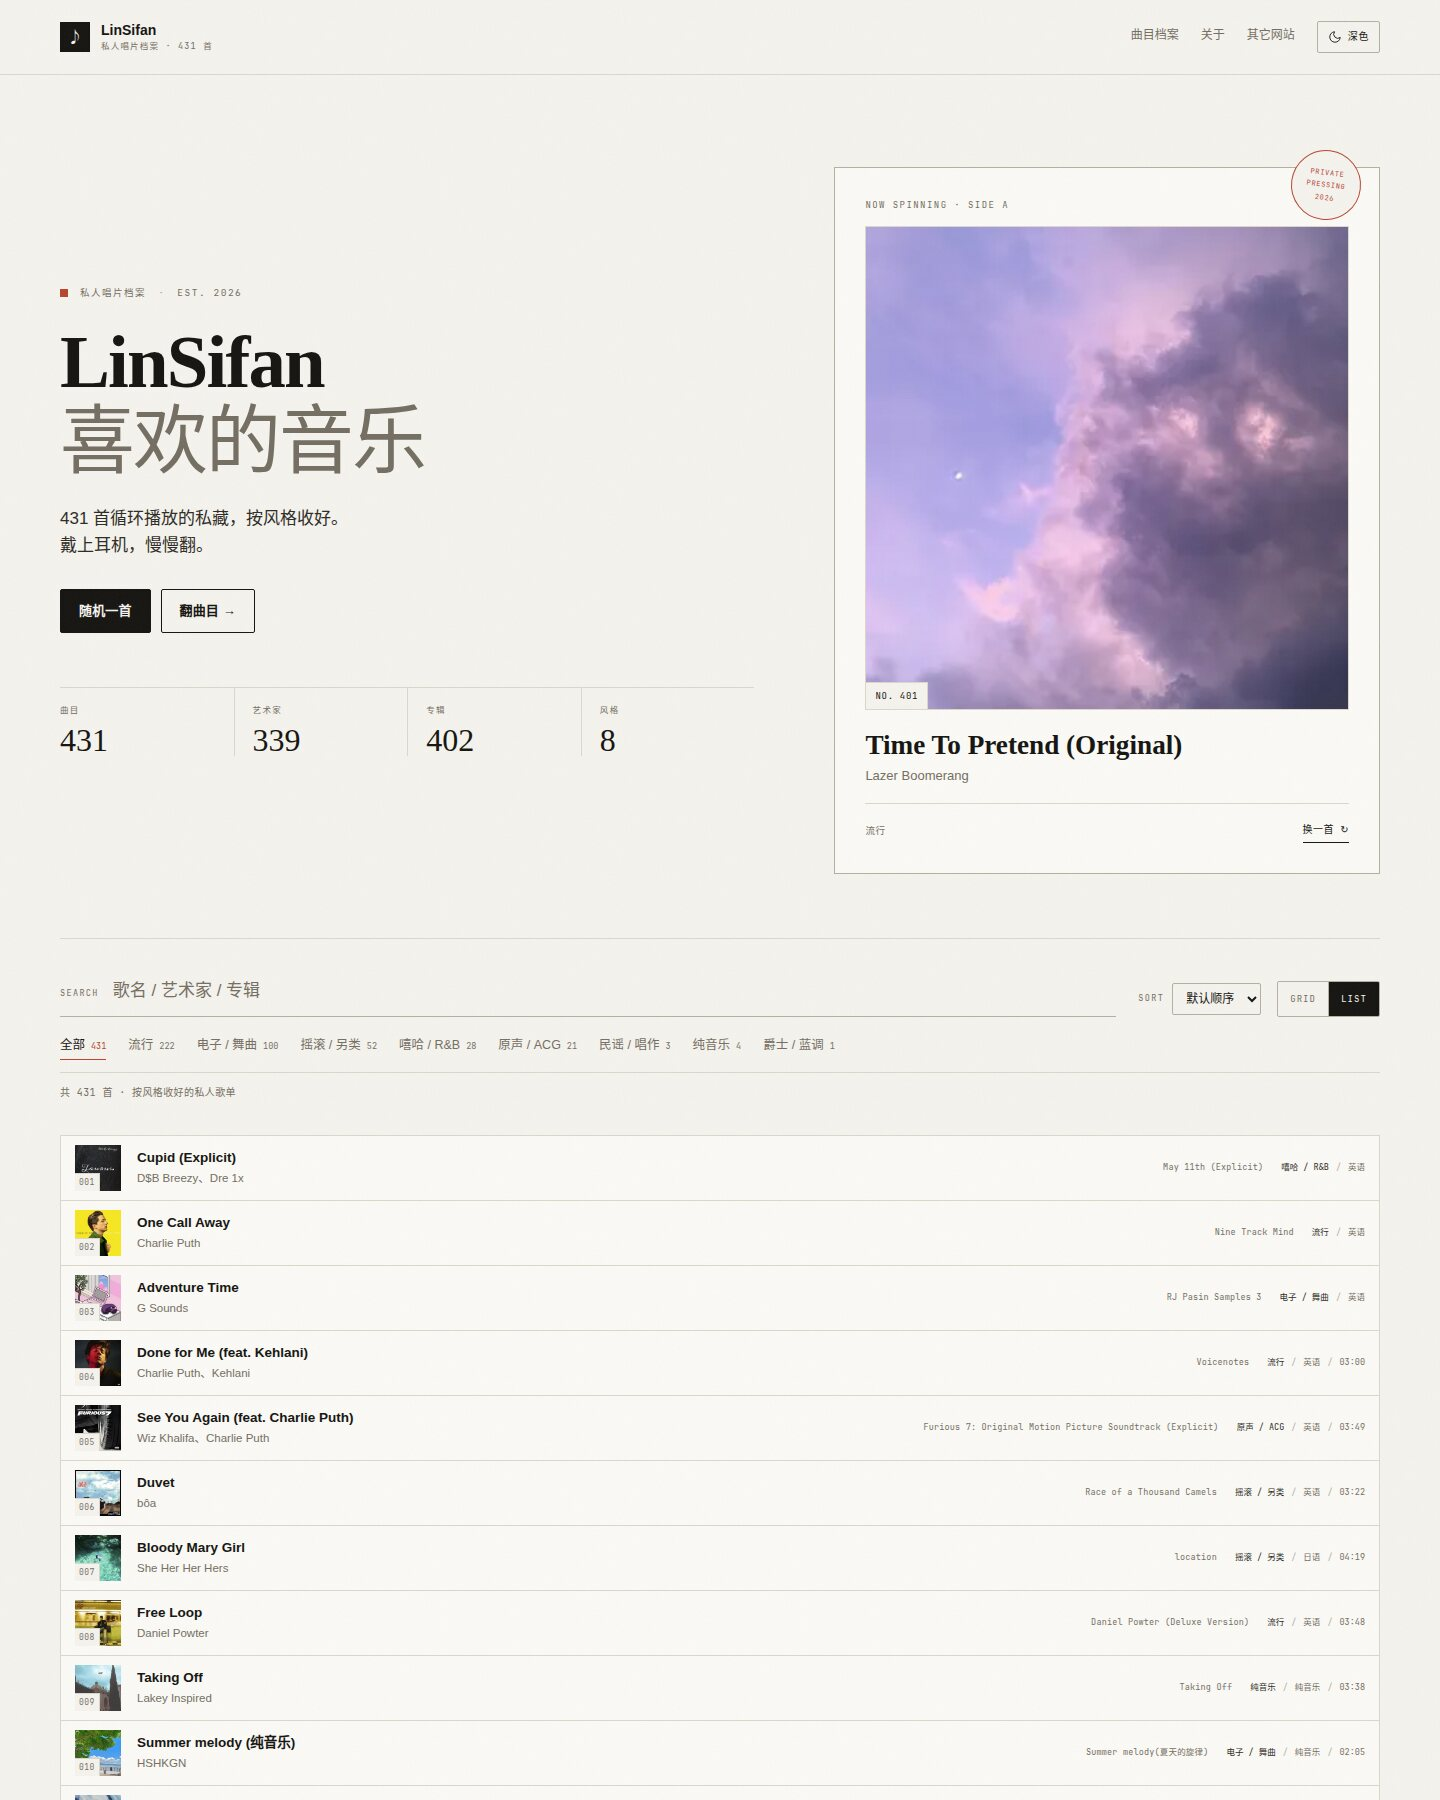
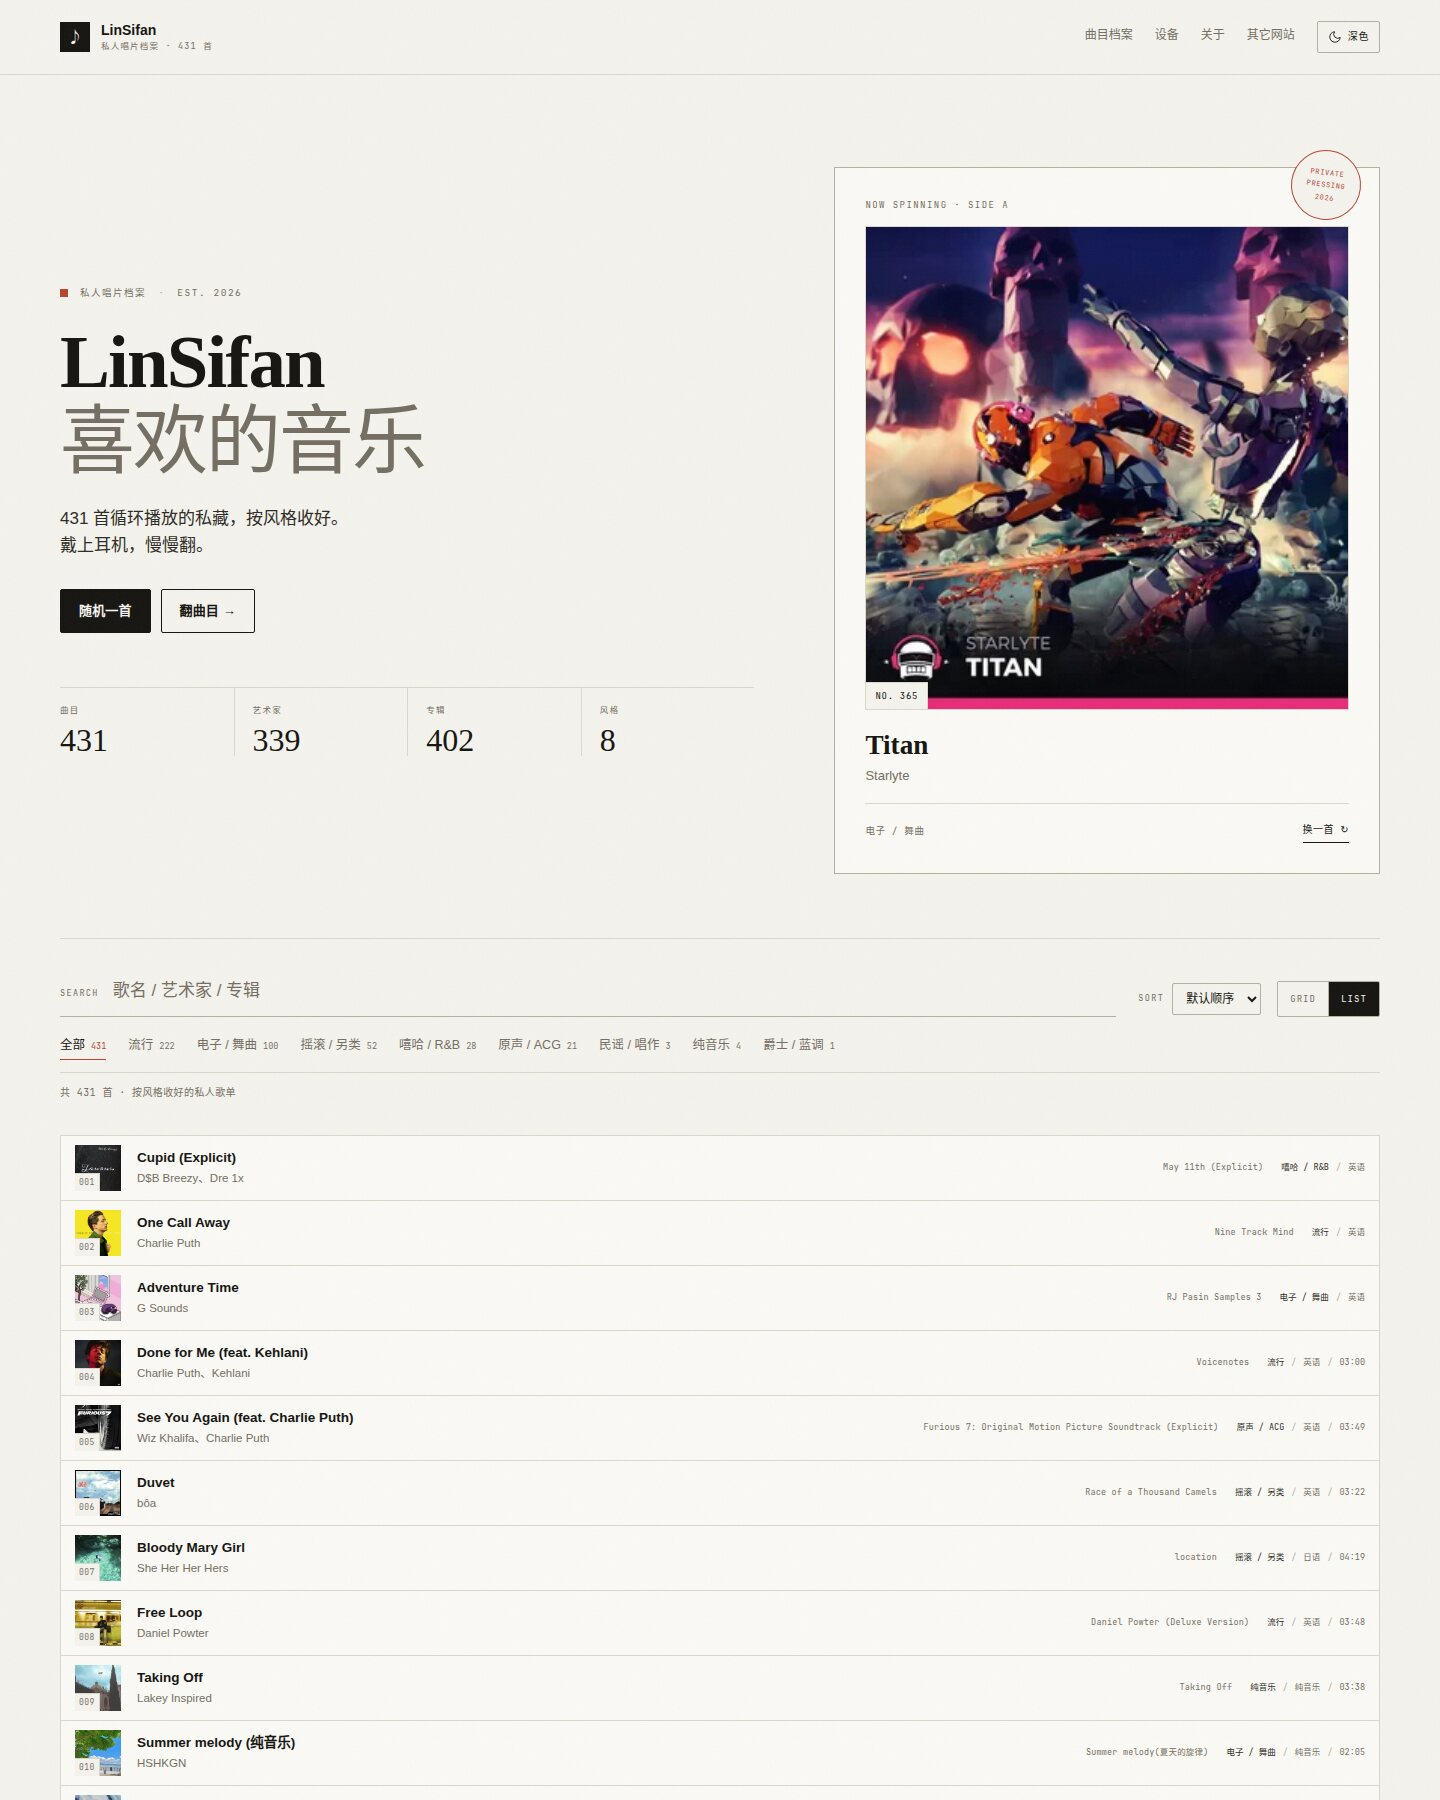
设备展示改为两张克制卡片，并更新发布预览
- 删除产品参数表、线稿、产品页链接等广告感元素
- 改为「LISTENING / 听音」下两张简单卡片：编号、名称、类型、日常用途
- 移除 Hero 设备推广链接和 gear 预览图
- 重新生成 dark / light-list / mobile / dialog 四张预览图
- CSS 版本号更新到 20261122-3

Changed region(s): [[0.5938, 0.1244, 0.9375, 0.4356], [0.75, 0.0, 0.8125, 0.0311]]

diff --git a/index.html b/index.html
@@ -11,7 +11,7 @@
   <meta property="og:type" content="website">
   <title>LinSifan 喜欢的音乐 · 私人唱片档案</title>
   <link rel="icon" href="favicon.svg" type="image/svg+xml">
-  <link rel="stylesheet" href="css/style.css?v=20261122-2">
+  <link rel="stylesheet" href="css/style.css?v=20261122-3">
 </head>
 <body>
   <header class="site-head">
@@ -56,7 +56,6 @@
           <div class="stat"><dt>专辑</dt><dd data-count="402" data-stat="albums">0</dd></div>
           <div class="stat"><dt>风格</dt><dd data-count="8" data-stat="genres">0</dd></div>
         </dl>
-        <a class="hero__gear" href="#gear">听音设备 · EDIFIER AtomBuds Plus / W820NB 三金标版 →</a>
       </div>
 
       <aside class="now" aria-label="现在播放">
@@ -115,63 +114,21 @@
       </div>
     </section>
 
-    <section class="gear shell" id="gear" aria-labelledby="gear-title">
-      <div class="gear__head">
-        <p class="kicker"><span>GEAR</span><span>02 DEVICES</span></p>
-        <h2 id="gear-title">我的音乐设备</h2>
-        <p class="gear__lede">两副耳机，一半在通勤路上，一半留给深夜。</p>
+    <section class="listening shell" id="gear" aria-labelledby="listening-title">
+      <div class="listening__head">
+        <p class="kicker"><span>LISTENING</span><span>听音</span></p>
+        <h2 id="listening-title">每天在用的两副耳机</h2>
       </div>
-
-      <div class="gear__grid">
-        <article class="gear-card">
-          <div class="gear-card__top"><span>01</span><span>TWS / 半入耳</span></div>
-          <div class="gear-card__art" aria-hidden="true">
-            <svg viewBox="0 0 160 120" width="190" height="142.5" role="img">
-              <g fill="none" stroke="currentColor" stroke-width="1.4" stroke-linecap="round">
-                <path d="M48 36c0-10 8-18 18-18s17 7 17 17c0 7-4 12-10 15l-4 30c-1 7-6 11-12 11-7 0-12-5-12-12 0-5 2-8 6-11l4-3c2-2 3-4 3-7V36Z"/>
-                <path d="M104 40c0-8 6-15 14-15s14 6 14 15c0 6-3 10-8 13l-3 24c-1 6-5 10-10 10-6 0-10-4-10-10 0-4 2-7 5-9l3-3c2-2 3-4 3-6V40Z"/>
-                <circle cx="66" cy="34" r="2.6"/>
-                <circle cx="118" cy="35" r="2.4"/>
-              </g>
-            </svg>
-            <span class="gear-card__art-note">ATOMBUDS PLUS</span>
-          </div>
+      <div class="listening__cards">
+        <article class="listen-card">
+          <div class="listen-card__top"><span>01</span><span>真无线 · 半入耳</span></div>
           <h3>EDIFIER AtomBuds Plus</h3>
-          <p class="gear-card__type">真无线 · 半入耳式</p>
-          <dl class="gear-specs">
-            <div><dt>连接</dt><dd>蓝牙真无线</dd></div>
-            <div><dt>特点</dt><dd>通话降噪 · 轻量佩戴</dd></div>
-            <div><dt>常听</dt><dd>通勤 / 播客 / 视频会议</dd></div>
-          </dl>
-          <p class="gear-note">上班路上和开会时用它，轻、不压耳，戴一整天也没什么负担。</p>
-          <a class="gear-link" href="https://edifier.cn/product/product-specs-767.html" target="_blank" rel="noopener">产品页 ↗</a>
+          <p>通勤 / 播客 / 视频会议</p>
         </article>
-
-        <article class="gear-card">
-          <div class="gear-card__top"><span>02</span><span>Headphone / 头戴</span></div>
-          <div class="gear-card__art" aria-hidden="true">
-            <svg viewBox="0 0 160 120" width="190" height="142.5" role="img">
-              <g fill="none" stroke="currentColor" stroke-width="1.4" stroke-linecap="round" stroke-linejoin="round">
-                <path d="M40 78V58c0-23 18-40 40-40s40 17 40 40v20"/>
-                <rect x="34" y="70" width="22" height="30" rx="8"/>
-                <rect x="104" y="70" width="22" height="30" rx="8"/>
-                <path d="M40 63c5-4 10-6 16-6M120 63c-5-4-10-6-16-6"/>
-                <path d="M62 17c8-4 18-6 26-6" opacity=".45"/>
-              </g>
-            </svg>
-            <span class="gear-card__art-note">W820NB 三金标版</span>
-          </div>
+        <article class="listen-card">
+          <div class="listen-card__top"><span>02</span><span>头戴式 · 主动降噪</span></div>
           <h3>EDIFIER W820NB 三金标版</h3>
-          <p class="gear-card__type">头戴式 · 主动降噪</p>
-          <dl class="gear-specs">
-            <div><dt>认证</dt><dd>双 Hi-Res 金标</dd></div>
-            <div><dt>编解码</dt><dd>LDAC</dd></div>
-            <div><dt>降噪</dt><dd>-43dB 深度降噪</dd></div>
-            <div><dt>续航</dt><dd>约 50 小时</dd></div>
-            <div><dt>常听</dt><dd>深夜 / 大编制 / 长时间专注</dd></div>
-          </dl>
-          <p class="gear-note">夜里把整张专辑从头听到尾时用它；安静、耐听，像把房间的门关上。</p>
-          <a class="gear-link" href="https://www.edifier.com.cn/product/product-specs-832.html" target="_blank" rel="noopener">产品页 ↗</a>
+          <p>深夜 / 大编制 / 长时间专注</p>
         </article>
       </div>
     </section>
@@ -286,7 +243,7 @@
 
   <div class="toast" id="toast" role="status" aria-live="polite"></div>
 
-  <script src="js/data.js?v=20261122-2"></script>
-  <script src="js/app.js?v=20261122-2"></script>
+  <script src="js/data.js?v=20261122-3"></script>
+  <script src="js/app.js?v=20261122-3"></script>
 </body>
 </html>

diff --git a/css/style.css b/css/style.css
@@ -409,82 +409,41 @@ html[data-theme="dark"] .theme-btn .icon-sun { display: block; }
 .empty p { margin: 0 0 22px; color: var(--muted); font-size: 13px; }
 .empty .btn { min-height: 40px; font-size: 12px; }
 
-/* ---------- Gear ---------- */
+/* ---------- Listening ---------- */
 
-.hero__gear {
-  display: inline-flex; align-items: baseline; gap: 4px;
-  margin-top: 22px; padding-bottom: 2px;
-  font-family: var(--font-mono); font-size: 9.5px; letter-spacing: .06em;
-  color: var(--muted); text-decoration: none;
-  border-bottom: 1px solid transparent;
-  transition: color .2s, border-color .2s;
-}
-.hero__gear:hover { color: var(--ink); border-color: var(--accent); }
-
-.gear {
+.listening {
   margin-top: clamp(48px, 7vw, 84px);
   padding-top: clamp(28px, 4vw, 44px);
   border-top: 1px solid var(--line);
 }
-.gear__head { max-width: 660px; margin-bottom: clamp(22px, 3.4vw, 34px); }
-.gear__head .kicker { margin-bottom: 14px; }
-.gear__head h2 {
-  margin: 0 0 10px; font-family: var(--font-display); font-weight: 600;
-  font-size: clamp(1.8rem, 3.2vw, 2.6rem); line-height: 1.15;
+.listening__head { max-width: 620px; margin-bottom: clamp(20px, 3vw, 30px); }
+.listening__head .kicker { margin-bottom: 14px; }
+.listening__head h2 {
+  margin: 0; font-family: var(--font-display); font-weight: 600;
+  font-size: clamp(1.7rem, 3vw, 2.4rem); line-height: 1.18;
 }
-.gear__lede { margin: 0; font-size: 14px; color: var(--ink-soft); }
-.gear__grid {
+.listening__cards {
   display: grid; grid-template-columns: repeat(2, minmax(0, 1fr));
   gap: 1px; background: var(--line); border: 1px solid var(--line);
 }
-.gear-card {
-  display: flex; flex-direction: column;
-  background: var(--card); padding: clamp(18px, 2.6vw, 30px);
+.listen-card {
+  background: var(--card); padding: clamp(18px, 2.6vw, 26px);
 }
-.gear-card__top {
+.listen-card__top {
   display: flex; align-items: baseline; justify-content: space-between; gap: 12px;
   padding-bottom: 12px; border-bottom: 1px solid var(--line);
   font-family: var(--font-mono); font-size: 8.5px; letter-spacing: .1em;
   text-transform: uppercase; color: var(--muted);
 }
-.gear-card__art {
-  display: flex; flex-direction: column; align-items: center; justify-content: center; gap: 10px;
-  margin: 14px 0 0; padding: 14px;
-  border: 1px solid var(--line); background: var(--paper);
+.listen-card h3 {
+  margin: 18px 0 6px; font-family: var(--font-display);
+  font-weight: 600; font-size: clamp(1.15rem, 1.8vw, 1.4rem); line-height: 1.3;
 }
-.gear-card__art svg { width: min(190px, 74%); height: auto; color: var(--ink); }
-.gear-card__art-note {
-  font-family: var(--font-mono); font-size: 8px; letter-spacing: .14em;
-  text-transform: uppercase; color: var(--muted);
+.listen-card p {
+  margin: 0; font-size: 12.5px; color: var(--muted); line-height: 1.6;
 }
-.gear-card h3 {
-  margin: 20px 0 5px; font-family: var(--font-display); font-weight: 600;
-  font-size: clamp(1.3rem, 2vw, 1.6rem); line-height: 1.25;
-}
-.gear-card__type {
-  margin: 0; font-family: var(--font-mono); font-size: 8.5px;
-  letter-spacing: .12em; color: var(--muted);
-}
-.gear-specs { margin: 18px 0 0; border-top: 1px solid var(--line); }
-.gear-specs div {
-  display: grid; grid-template-columns: 78px minmax(0, 1fr); gap: 14px;
-  padding: 9px 0; border-bottom: 1px solid var(--line);
-}
-.gear-specs dt {
-  font-family: var(--font-mono); font-size: 8px; letter-spacing: .14em;
-  text-transform: uppercase; color: var(--muted); padding-top: 1px;
-}
-.gear-specs dd { margin: 0; font-size: 12.5px; color: var(--ink-soft); line-height: 1.5; }
-.gear-note { margin: 16px 0 0; font-size: 13px; line-height: 1.75; color: var(--muted); }
-.gear-link {
-  align-self: flex-start; margin-top: auto; padding-top: 18px; padding-bottom: 2px;
-  font-family: var(--font-mono); font-size: 9px; letter-spacing: .06em;
-  color: var(--ink); text-decoration: none; border-bottom: 1px solid var(--ink);
-  transition: color .2s, border-color .2s;
-}
-.gear-link:hover { color: var(--accent); border-color: var(--accent); }
 
-/* ---------- About / liner notes ---------- */
+/* ---------- About / liner notes ---------- *//* ---------- About / liner notes ---------- *//* ---------- About / liner notes ---------- */
 
 .about {
   margin-top: clamp(48px, 7vw, 84px); padding-top: clamp(28px, 4vw, 44px);
@@ -744,7 +703,7 @@ html[data-theme="dark"] .theme-btn .icon-sun { display: block; }
   .toolbar__controls { justify-content: space-between; }
   .grid { grid-template-columns: repeat(3, minmax(0, 1fr)); }
   .about { grid-template-columns: 1fr; }
-  .gear__grid { grid-template-columns: 1fr; }
+  .listening__cards { grid-template-columns: 1fr; }
   .about__credits { grid-template-columns: repeat(2, minmax(0, 1fr)); }
   .about__credits div:nth-child(3) { border-left: 0; padding-left: 0; }
   .grid.is-list .song-card__body { display: flex; flex-wrap: wrap; gap: 4px 10px; }

diff --git a/README.md b/README.md
@@ -47,9 +47,6 @@
   <img src="docs/preview-dialog.jpg" alt="歌曲详情弹窗" width="72%">
 </p>
 
-<p align="center">
-  <img src="docs/preview-gear.jpg" alt="我的音乐设备：EDIFIER AtomBuds Plus 与 W820NB 三金标版" width="100%">
-</p>
 
 ## 风格分布
 
